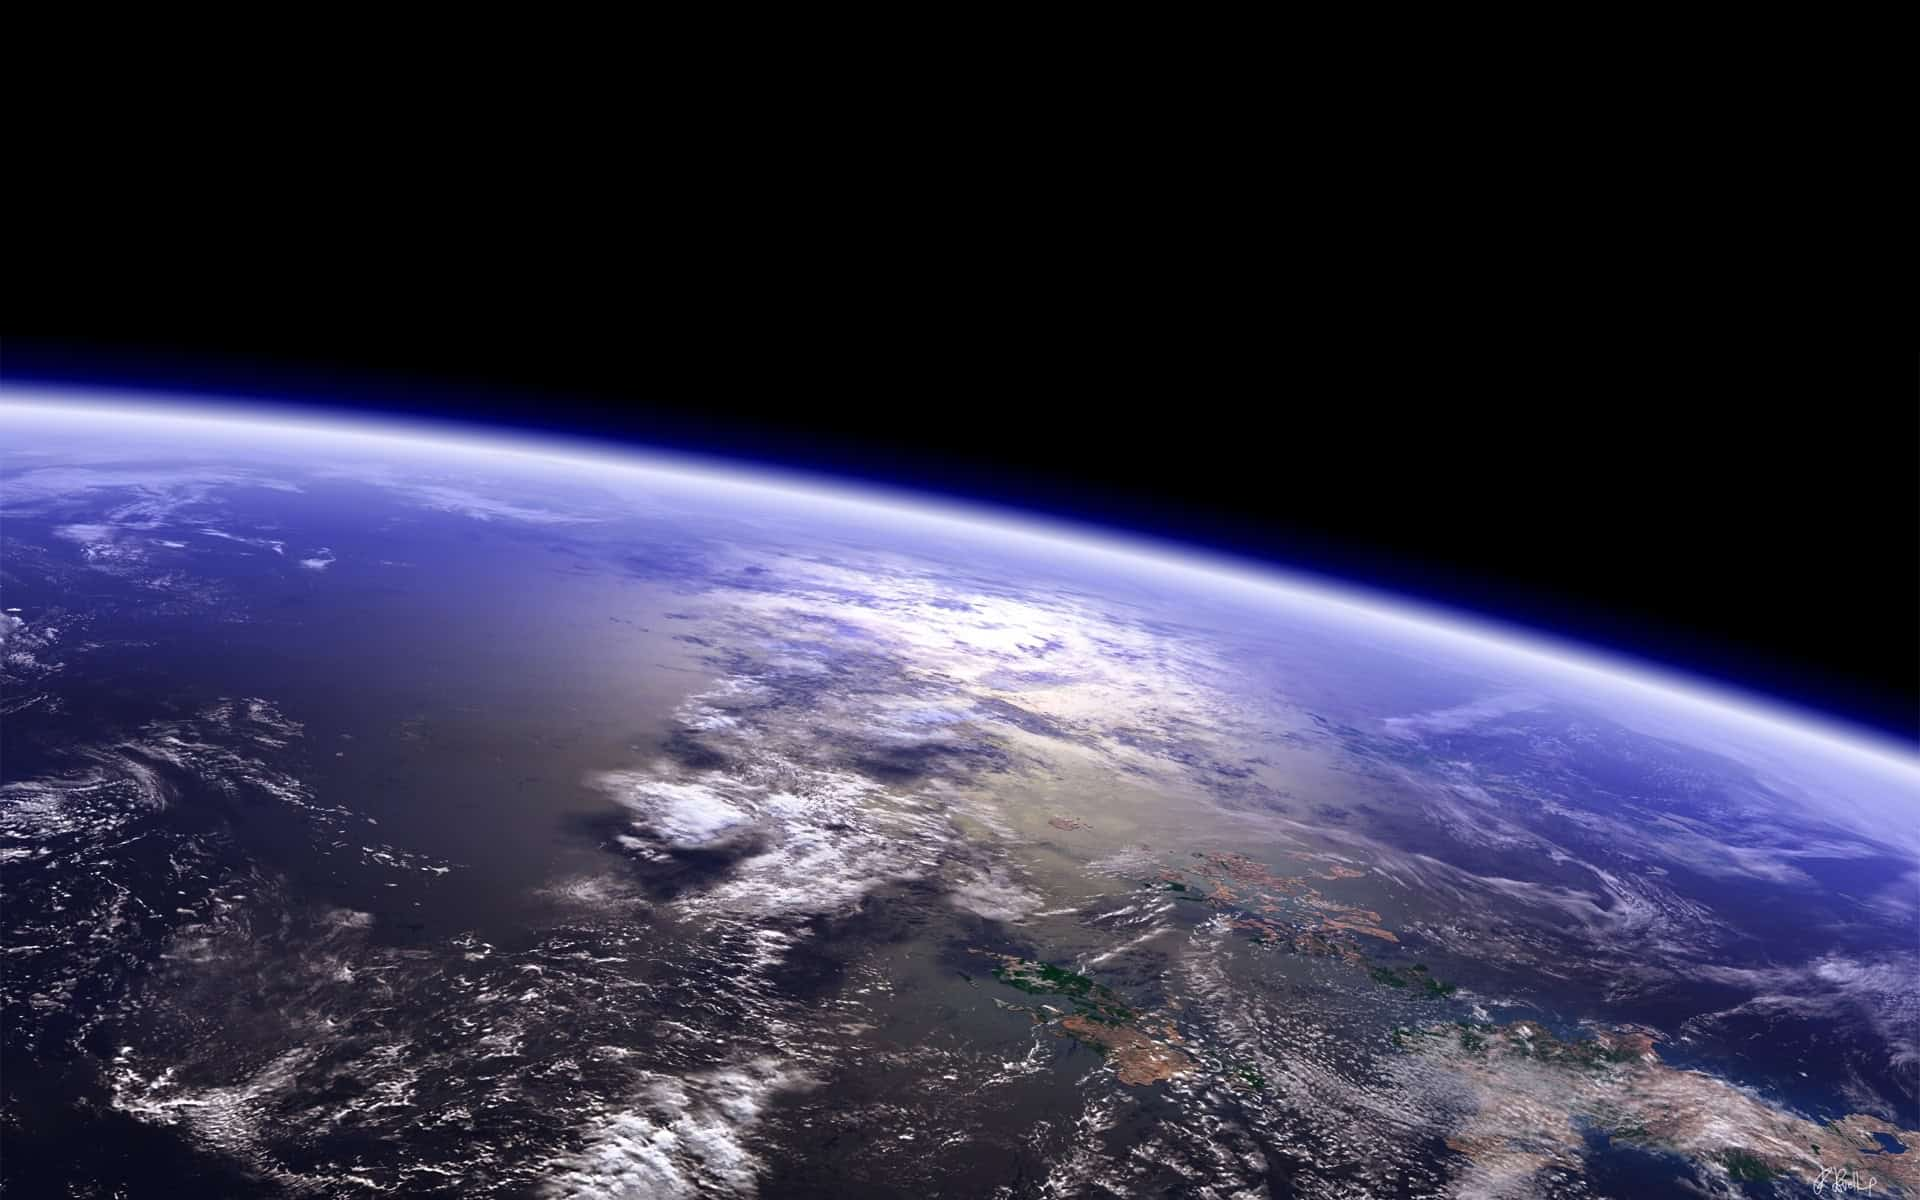
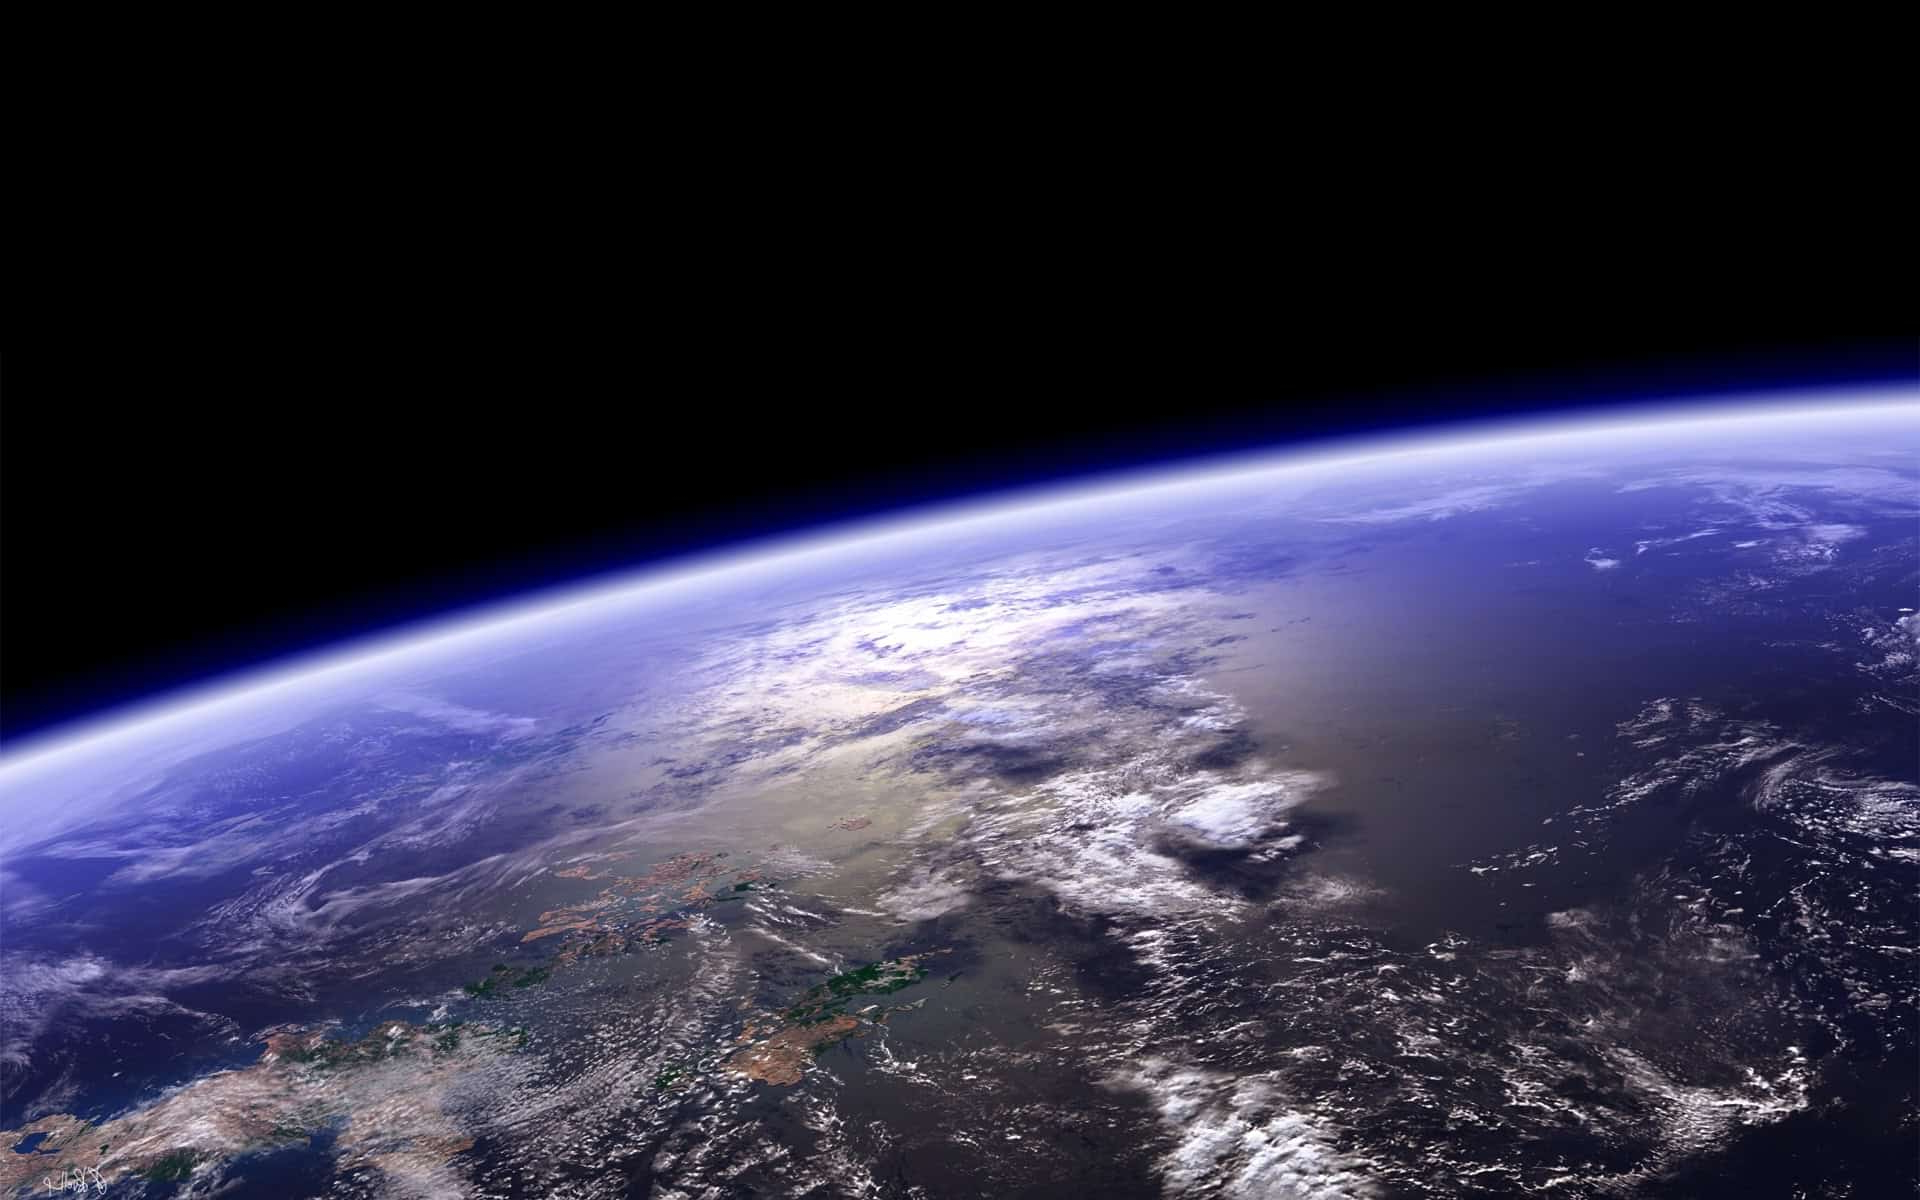
Flipped background and made WIP joke

diff --git a/projects/searchbar/searchbar.html b/projects/searchbar/searchbar.html
@@ -1,1 +1,1 @@
-Work In Progress
+Hey, I said this was a work in progress!
